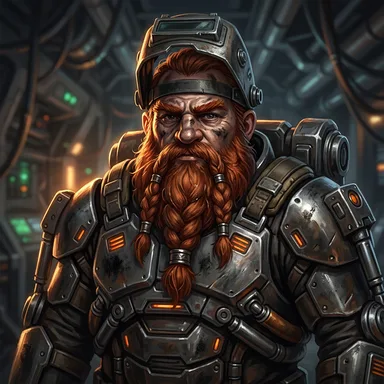
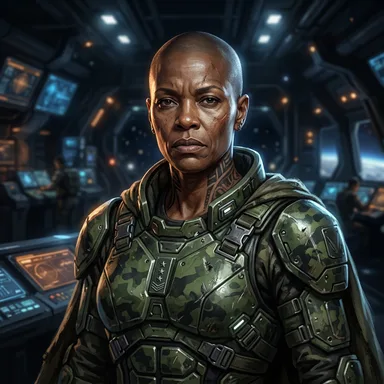
Give every leader a portrait of their own
Leaders picked one of 24 portraits by a hash of their name, so the 67
heroes had to share faces. Portraits are now numbered by hero, the 24
existing ones go to the heroes they fit, and 43 new ones were painted.

Claude-Session: https://claude.ai/code/session_019odi8u9y7qKfGuAWnySWEG

diff --git a/apps/web/test/leaderOffer.test.tsx b/apps/web/test/leaderOffer.test.tsx
@@ -1,10 +1,13 @@
 import { describe, expect, it } from "vitest";
+import { existsSync } from "node:fs";
+import { join } from "node:path";
 import { renderToStaticMarkup } from "react-dom/server";
 import { HEROES, HERO_SKILLS, LEADER_RULES, abilityValue, administratorGain, heroLeaderId, newGame, refreshLeaders, type GameState } from "@starlord/sim";
 import { GameSession } from "../src/game/session";
 import { SessionContext } from "../src/ui/hooks";
 import { HERO_INTROS } from "../src/leaders/intros";
 import { LeaderOfferPopup, newLeaderOffers } from "../src/screens/LeaderOfferPopup";
+import { leaderPortraitUrl } from "../src/ui/panels";
 
 function offered(heroName: string): { state: GameState; id: string } {
   const state = newGame({ seed: "intro", races: ["terran", "felhari"], humanPlayers: [0] });
@@ -29,6 +32,12 @@ function render(state: GameState, id: string): string {
 describe("leader introduction", () => {
   it("has a greeting of their own for every hero", () => {
     for (const h of HEROES) expect(HERO_INTROS[h.name], h.name).toBeTruthy();
+  });
+
+  it("gives every hero a portrait of their own", () => {
+    const urls = HEROES.map((_, i) => leaderPortraitUrl(i));
+    expect(new Set(urls).size).toBe(HEROES.length);
+    for (const [i, url] of urls.entries()) expect(existsSync(join(__dirname, "../../../public", url)), HEROES[i]!.name).toBe(true);
   });
 
   it("opens only for last turn's offers that still wait for an answer", () => {

diff --git a/apps/web/src/ui/panels.tsx b/apps/web/src/ui/panels.tsx
@@ -265,14 +265,13 @@ export function viewStarOfColony(view: PlayerView, colonyId: string) {
   return p ? view.galaxy.stars.find((s) => s.id === p.starId) : undefined;
 }
 
-const LEADER_PORTRAITS = 24;
+/** Each leader's own painted portrait in public/leaders, numbered by their place in the hero roster. */
+export function leaderPortraitUrl(heroId: number): string {
+  return `leaders/${String(heroId).padStart(2, "0")}.webp`;
+}
 
-/** One of the painted leader portraits, picked by name so a leader always keeps the same face. */
-export function LeaderPortrait({ name, size = 84 }: { name: string; size?: number }) {
-  let h = 0;
-  for (const ch of name) h = (h * 31 + ch.charCodeAt(0)) >>> 0;
-  const n = String((h % LEADER_PORTRAITS) + 1).padStart(2, "0");
-  return <img src={`leaders/${n}.webp`} alt={name} width={size} height={size} loading="lazy" style={{ borderRadius: 6, objectFit: "cover", background: "#000", display: "block", flex: "none" }} />;
+export function LeaderPortrait({ leader, size = 84 }: { leader: { heroId: number; name: string }; size?: number }) {
+  return <img src={leaderPortraitUrl(leader.heroId)} alt={leader.name} width={size} height={size} loading="lazy" style={{ borderRadius: 6, objectFit: "cover", background: "#000", display: "block", flex: "none" }} />;
 }
 
 /** A large planet for detail views: it floats, glows at the rim and has a small moon circling it. */

diff --git a/apps/web/src/screens/LeaderOfferPopup.tsx b/apps/web/src/screens/LeaderOfferPopup.tsx
@@ -79,7 +79,7 @@ export function LeaderOfferPopup({ leaderId, onClose, onLeaders }: { leaderId: s
     <div className="modal-back leader-offer-back" onClick={onClose}>
       <div className="modal leader-offer" role="dialog" aria-label={`${l.name} offers their services`} onClick={(e) => e.stopPropagation()}>
         <div className="lo-head">
-          <div className="lo-portrait"><LeaderPortrait name={l.name} size={150} /></div>
+          <div className="lo-portrait"><LeaderPortrait leader={l} size={150} /></div>
           <div className="col" style={{ gap: 4, minWidth: 0 }}>
             <div className="lo-kicker">A leader offers their services</div>
             <div className="lo-name">{l.name}</div>

diff --git a/apps/web/src/screens/LeadersScreen.tsx b/apps/web/src/screens/LeadersScreen.tsx
@@ -28,7 +28,7 @@ function LeaderCard({ l, children }: { l: Leader; children: ReactNode }) {
   const next = LEVEL_XP[l.level];
   return (
     <div className="leader-card">
-      <LeaderPortrait name={l.name} />
+      <LeaderPortrait leader={l} />
       <div className="col" style={{ gap: 4, minWidth: 0 }}>
         <div><b>{l.name}</b> <span className="level-stars" title={`Level ${l.level}`}>{"★".repeat(Math.max(1, Math.min(6, l.level)))}</span></div>
         <small className="muted">{l.title}. {kindName(l.kind)}, level {l.level}, {l.xp}{next !== undefined ? `/${next}` : ""} XP</small>

diff --git a/apps/web/src/changelog/entries/2026-10-14-1045-leader-portraits.md b/apps/web/src/changelog/entries/2026-10-14-1045-leader-portraits.md
@@ -1,0 +1,3 @@
+# Every leader has a face of their own
+- All 67 leaders now have their own painted portrait, so two leaders never share a picture anymore.
+- 43 new portraits were painted to fit each leader's name and calling, from the Pirate King's red beard to the Oracle's veiled blind eyes.
